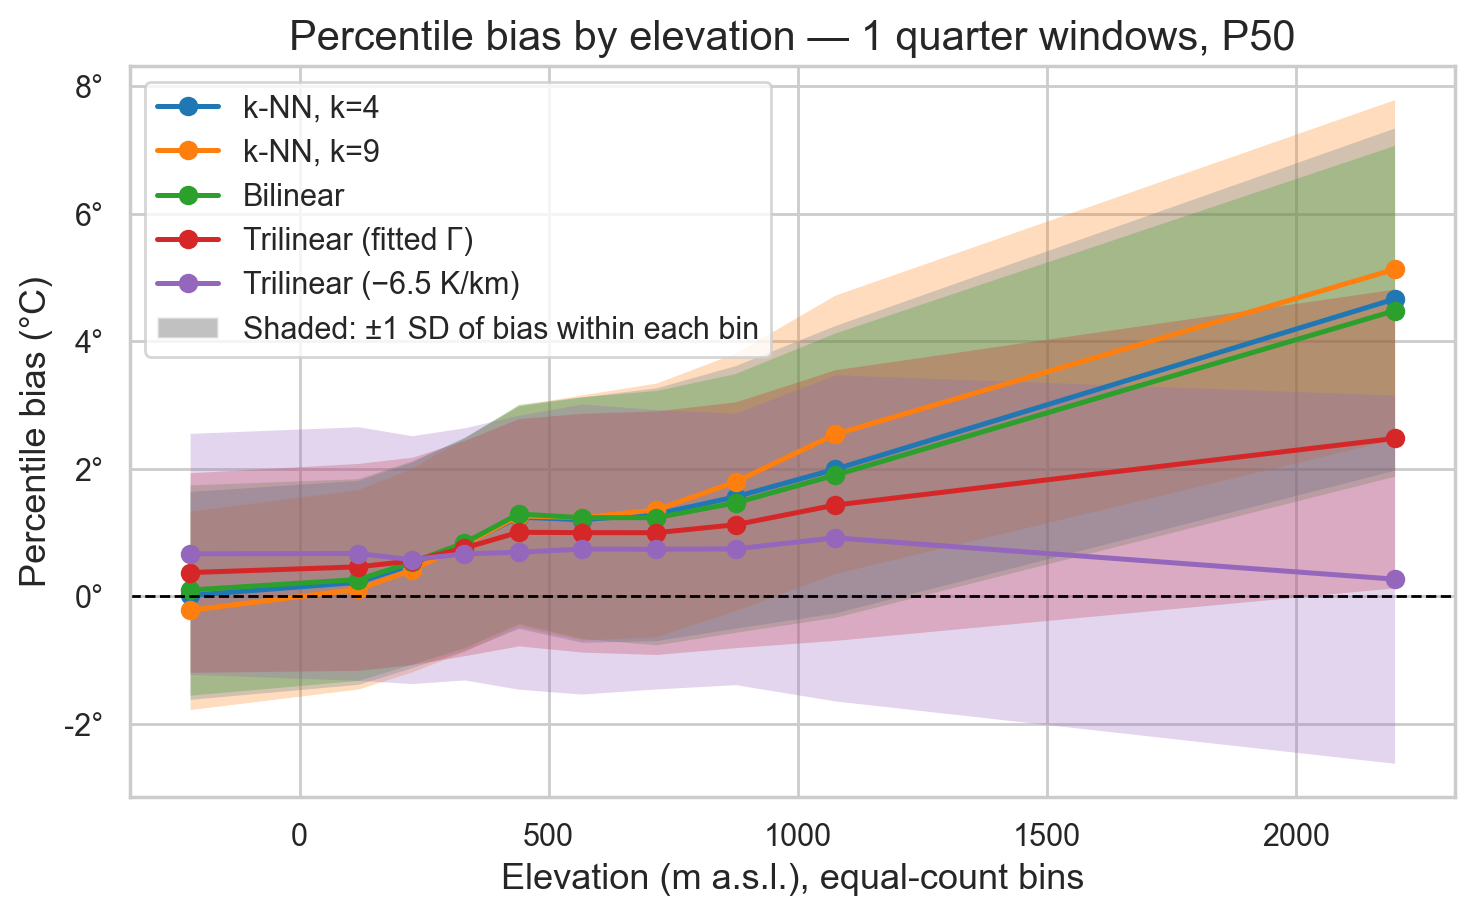
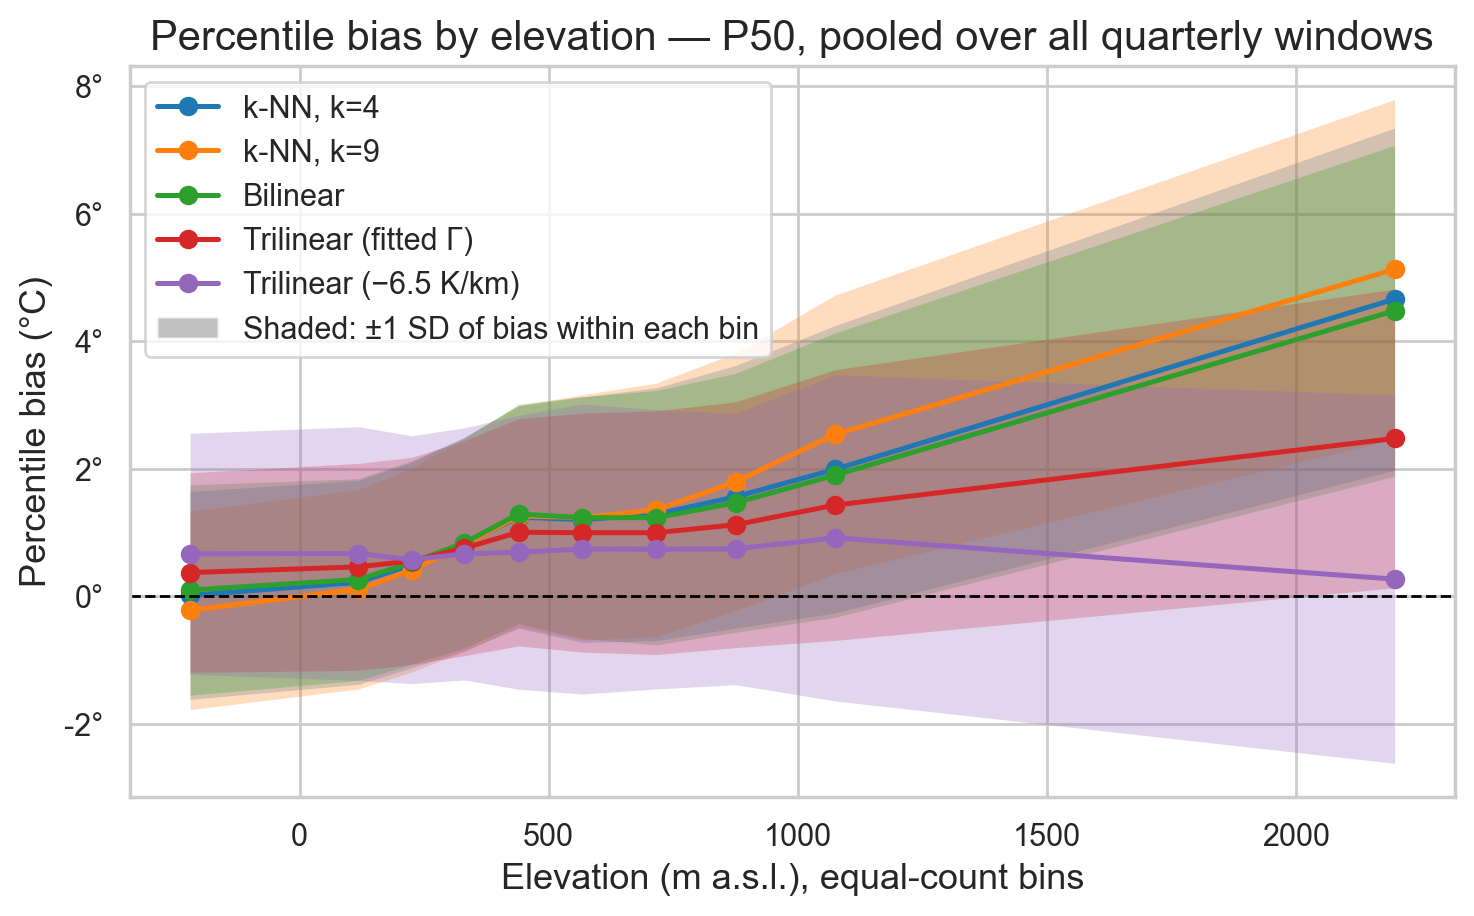
State that the elevation figure pools every window, not one quarter
A reader asked whether the bias-vs-elevation figure was measured on a single
quarter. It is not, and neither the plot title nor the caption said so.

The figure title read "1 quarter windows, P50", which reads as though one
particular quarter were plotted. Added SCHEME_ADJECTIVES to qm_visualization
so a pooled-window title can say "quarterly" rather than "1 quarter", and
retitled both the elevation and the sea-fraction figures as
"... pooled over all quarterly windows". Regenerated fig_q09 and fig_q10.

The caption now says explicitly that every bin pools all 40 quarterly windows
of 1990-1999, roughly 768 land pixels x 40 windows per bin, and that the +/-1
SD band therefore mixes pixel-to-pixel with window-to-window variation. Since
the bias is strongly seasonal, much of that band is seasonal rather than
spatial, which a reader would otherwise be likely to misread. Table headers
name the lowest and highest bin rather than a bare elevation.

Changed region(s): [[0.0936, 0.0, 0.9674, 0.0611]]

diff --git a/src/qm_visualization.py b/src/qm_visualization.py
@@ -38,6 +38,7 @@ from .visualization import (
 __all__ = [
     "PREDICTOR_LABELS",
     "SCHEME_LABELS",
+    "SCHEME_ADJECTIVES",
     "plot_quantile_scatter",
     "plot_percentile_panels",
     "plot_bias_map",
@@ -61,12 +62,22 @@ PREDICTOR_LABELS = {
     "trilinear_fixed": "Trilinear (−6.5 K/km)",
 }
 
-#: Human-readable window-scheme names.
+#: Human-readable window-scheme names, for naming a single window length.
 SCHEME_LABELS = {
     "14d": "14 days",
     "month": "1 month",
     "quarter": "1 quarter",
     "year": "1 year",
+}
+
+#: Adjectival form, for titles describing a pool of many windows. "1 quarter
+#: windows" reads as though a single quarter were plotted; "quarterly windows"
+#: does not.
+SCHEME_ADJECTIVES = {
+    "14d": "14-day",
+    "month": "monthly",
+    "quarter": "quarterly",
+    "year": "annual",
 }
 
 _BIAS_CMAP = "RdBu_r"
@@ -682,8 +693,8 @@ def plot_bias_vs_elevation(
     labels.append("Shaded: ±1 SD of bias within each bin")
     ax.legend(handles, labels, fontsize=VC.LEGEND_FONT_SIZE, framealpha=0.8)
     ax.set_title(
-        title or f"Percentile bias by elevation — "
-                 f"{SCHEME_LABELS.get(scheme, scheme)} windows, P{percentile}",
+        title or f"Percentile bias by elevation — P{percentile}, pooled over "
+                 f"all {SCHEME_ADJECTIVES.get(scheme, scheme)} windows",
         fontsize=VC.TITLE_FONT_SIZE,
     )
     fig.tight_layout()
@@ -744,8 +755,8 @@ def plot_bias_by_sea_fraction(
     ax.tick_params(labelsize=VC.TICK_FONT_SIZE)
     ax.legend(fontsize=VC.LEGEND_FONT_SIZE, framealpha=0.8, ncol=2)
     ax.set_title(
-        title or f"Percentile bias by coarse-cell sea fraction — "
-                 f"{SCHEME_LABELS.get(scheme, scheme)} windows, P{percentile}",
+        title or f"Percentile bias by coarse-cell sea fraction — P{percentile}, "
+                 f"pooled over all {SCHEME_ADJECTIVES.get(scheme, scheme)} windows",
         fontsize=VC.TITLE_FONT_SIZE,
     )
     fig.tight_layout()

diff --git a/summaries/quantile_mapping_findings.md b/summaries/quantile_mapping_findings.md
@@ -169,11 +169,11 @@ Two things stand out in Fig. 1. Most points fall below the 1:1 line, so the pred
 
 ![Bias vs elevation](../plots/fig_q09_bias_vs_elevation.png)
 
-**Fig. 2.** *Mean percentile bias against terrain elevation, by predictor.* X axis: elevation (m a.s.l.), grouped into ten bins holding equal numbers of pixels and plotted at the bin centre, so the spacing reflects the domain's skew toward low ground. Y axis: mean bias, predictor minus observation, in °C; the dashed line marks zero. One line per predictor. Shaded band: ±1 standard deviation of the bias within each bin. Data: quarterly windows at the median, ERA5-Land and CMIP6 CESM2-WACCM, 1990–1999, land pixels of 24–38°N 30–38°E.
+**Fig. 2.** *Mean percentile bias against terrain elevation, by predictor.* X axis: elevation (m a.s.l.), grouped into ten bins holding equal numbers of pixels and plotted at the bin centre, so the spacing reflects the domain's skew toward low ground. Y axis: mean bias, predictor minus observation, in °C; the dashed line marks zero. One line per predictor. Shaded band: ±1 standard deviation of the bias within each bin. This is not a single quarter. Every bin pools all 40 quarterly windows of 1990–1999, so each holds about 768 land pixels × 40 windows ≈ 30,700 values. The band therefore mixes two sources of variation, pixel-to-pixel and window-to-window; since the bias is strongly seasonal (see below), a large part of the band is seasonal rather than spatial. Data: ERA5-Land 2 m temperature and CMIP6 CESM2-WACCM TAS, median of each quarterly window, land pixels of 24–38°N 30–38°E.
 
 This is the main result of the study.
 
-| Predictor | Bias at −220 m | Bias at 2,197 m | Spread in top bin |
+| Predictor | Mean bias, lowest bin (−220 m) | Mean bias, highest bin (2,197 m) | Spread in highest bin |
 |---|---|---|---|
 | k-NN, k=4 | +0.02 | +4.66 | 2.68 |
 | k-NN, k=9 | −0.22 | +5.13 | 2.66 |
